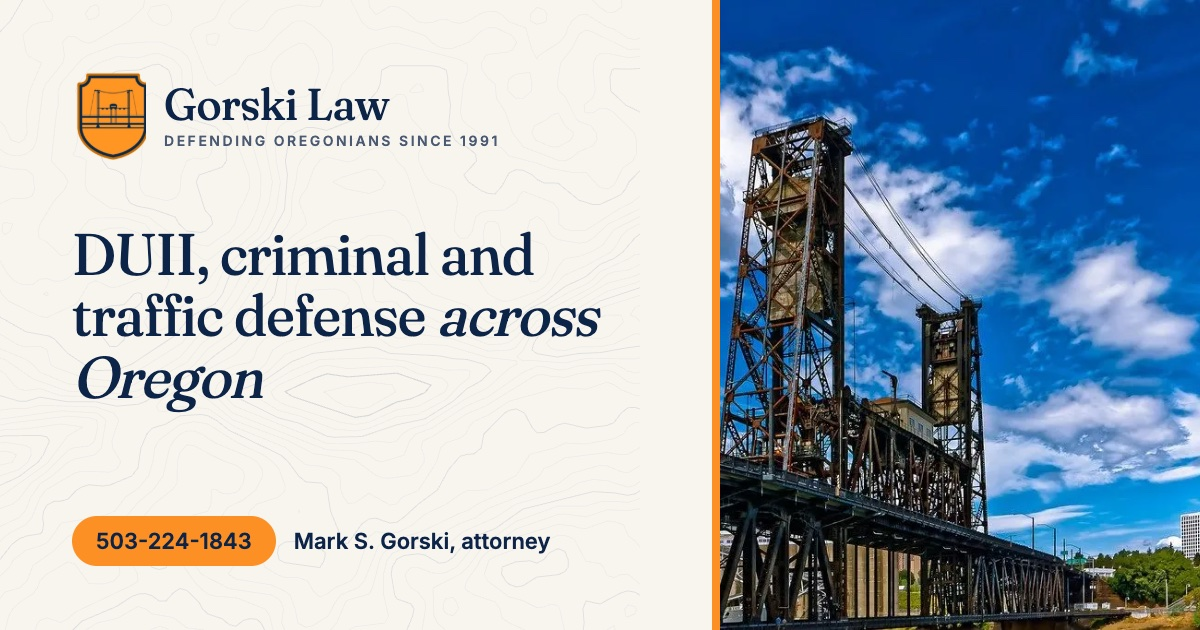
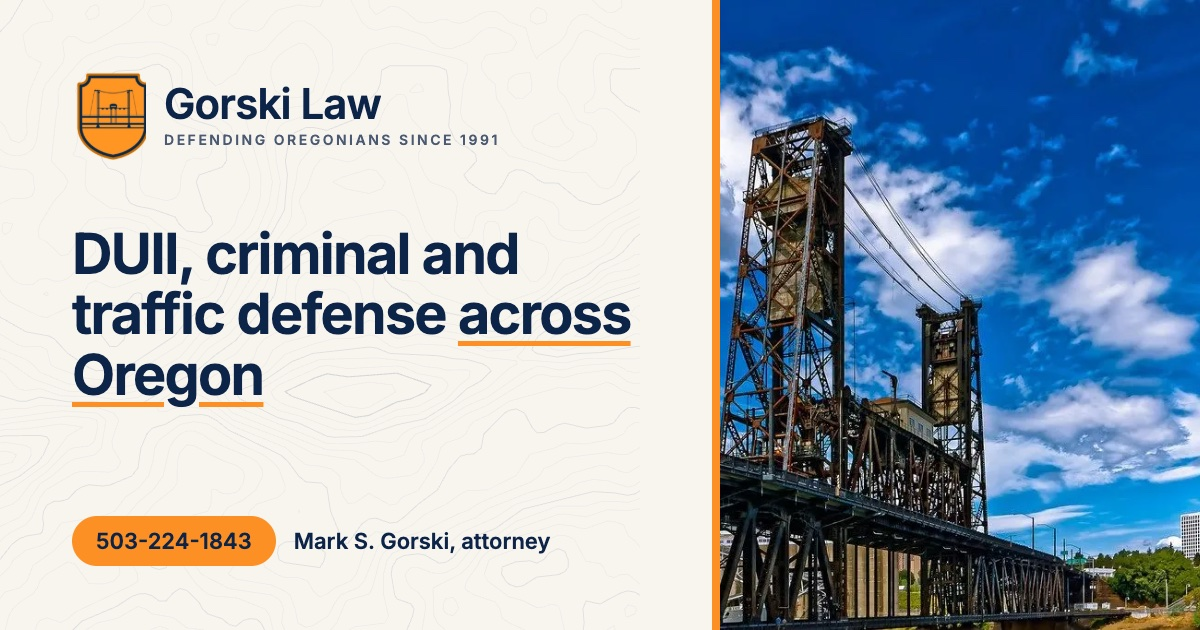
Remove every placeholder, keep only what the firm's own site says, switch to Inter
- no {{CONFIRM}} placeholders anywhere: unknowns are left out (counties section,
  set-asides FAQ, fee details, law school/memberships rows, street address, email)
- footer and contact show the office as "Portland, Oregon", the firm's own wording
- home credentials: teaching, seminars and books in one badge, plus the firm's
  "thousands of Oregon drivers since 1991"; Jeff's review stays the only review
  (it is the only one on any archived version of gorski-law.com)
- plainer About heading: "A trial lawyer in Oregon courts since 1991"
- type: Inter for headings (the template's data-font="Inter") and body text
- footer tagline wraps instead of overlapping the next column
- check.js now fails if a placeholder ever reaches a page

Changed region(s): [[0.0617, 0.3619, 0.5242, 0.6635], [0.1233, 0.1206, 0.4317, 0.2413]]

diff --git a/build.js b/build.js
@@ -241,8 +241,9 @@ function header(p) {
 function hoursDL() {
   return `<dl class="hours">${FIRM.hours.map((h) => `<div><dt>${h.short}</dt><dd>${h.time}</dd></div>`).join('')}</dl>`;
 }
-const ADDRESS = FIRM.address ? esc(FIRM.address) : '{{CONFIRM: office street address (none is published on the current site)}}';
-const EMAIL = FIRM.email ? `<a href="mailto:${esc(FIRM.email)}">${esc(FIRM.email)}</a>` : '{{CONFIRM: office email to publish}}';
+// No street address or email is published on the firm's own site, so none is shown until FIRM sets one.
+const ADDRESS = FIRM.address ? esc(FIRM.address) : 'Portland, Oregon';
+const EMAIL = FIRM.email ? `<a href="mailto:${esc(FIRM.email)}">${esc(FIRM.email)}</a>` : '';
 
 function footer(p) {
   const pages1 = ['/duii-defense/', '/duii-defense/diversion/', '/duii-defense/dmv-implied-consent-hearing/', '/traffic-tickets/', '/traffic-tickets/cdl-commercial-drivers/', '/criminal-defense/'];
@@ -256,7 +257,7 @@ function footer(p) {
     </div>
     <div class="foot__col">
       <h2 class="foot__h">Contact</h2>
-      <address class="nap"><span class="nap__name">Gorski Law</span><a href="${TEL}">${FIRM.phone}</a><span>${ADDRESS}</span><span>${EMAIL}</span><a href="${FIRM.facebook}" rel="noopener">Facebook: trialmoose</a></address>
+      <address class="nap"><span class="nap__name">Gorski Law</span><a href="${TEL}">${FIRM.phone}</a><span>${ADDRESS}</span>${EMAIL ? `<span>${EMAIL}</span>` : ''}<a href="${FIRM.facebook}" rel="noopener">Facebook: trialmoose</a></address>
     </div>
     <div class="foot__col"><h2 class="foot__h">Hours</h2>${hoursDL()}</div>
     <nav class="foot__col" aria-label="Practice areas"><h2 class="foot__h">Practice areas</h2><ul class="foot__pages">${pages1.map(li).join('')}</ul></nav>
@@ -534,7 +535,7 @@ function graph(p, crumbs) {
 const CSS = fs.readFileSync(path.join(SRC, 'assets/template.css'), 'utf8') + '\n' + fs.readFileSync(path.join(SRC, 'assets/gorski.css'), 'utf8');
 const CSS_V = crypto.createHash('md5').update(CSS).digest('hex').slice(0, 8);
 // colours sampled from the Gorski Law logo: shield orange, navy lettering
-const THEME = ':root { --accent: #fc9024; --accent-ink: #0c2448; --ink: #0c2448; --paper: #f8f5ef; --display: \'Fraunces\'; }';
+const THEME = ':root { --accent: #fc9024; --accent-ink: #0c2448; --ink: #0c2448; --paper: #f8f5ef; --display: \'Inter\'; }';
 const JS_V = hash(path.join(SRC, 'assets/app.js'));
 function heroPreload(p) {
   const k = p.route === '/' ? 'bridge' : photoFor(p);
@@ -551,7 +552,7 @@ function shell(p, main) {
   const url = abs(p.route);
   const ogImg = abs('/assets/img/og.jpg');
   return `<!doctype html>
-<html lang="en-US" data-font="Fraunces" data-skin="editorial">
+<html lang="en-US" data-font="Inter" data-skin="editorial">
 <head>
 <meta charset="utf-8">
 <meta name="viewport" content="width=device-width, initial-scale=1, viewport-fit=cover">
@@ -579,7 +580,7 @@ ${p.kind === 'post' ? `<meta property="article:published_time" content="${isoDat
 <link rel="icon" href="/favicon-32.png" type="image/png" sizes="32x32">
 <link rel="apple-touch-icon" href="/apple-touch-icon.png">
 ${heroPreload(p)}
-<link rel="preload" href="/assets/fonts/Fraunces-400.woff2" as="font" type="font/woff2" crossorigin>
+<link rel="preload" href="/assets/fonts/Inter-400.woff2" as="font" type="font/woff2" crossorigin>
 <link rel="stylesheet" href="/assets/styles.css?v=${CSS_V}">
 <style>${THEME}</style>
 <link rel="alternate" type="application/rss+xml" title="Gorski Law blog" href="/rss.xml">
@@ -651,7 +652,7 @@ function build() {
   const x = (s) => esc(s).replace(/'/g, '&apos;');
   write('rss.xml', `<?xml version="1.0" encoding="UTF-8"?>\n<rss version="2.0" xmlns:atom="http://www.w3.org/2005/Atom">\n<channel>\n<title>Gorski Law blog</title>\n<link>${abs('/blog/')}</link>\n<atom:link href="${abs('/rss.xml')}" rel="self" type="application/rss+xml"/>\n<description>Plain-language guides to Oregon DUII, traffic and criminal law from Gorski Law. Drafts pending attorney review.</description>\n<language>en-us</language>\n<lastBuildDate>${new Date(BUILD_DATE + 'T12:00:00Z').toUTCString()}</lastBuildDate>\n${posts.map((p) => `<item>\n  <title>${x(p.fm.h1 || p.title)}</title>\n  <link>${abs(p.route)}</link>\n  <guid isPermaLink="true">${abs(p.route)}</guid>\n  <pubDate>${new Date(isoDate(p.fm.date) + 'T12:00:00Z').toUTCString()}</pubDate>\n  <description>${x(p.description)}</description>\n</item>`).join('\n')}\n</channel>\n</rss>\n`);
   const L = (r) => { const q = byRoute.get(r); return q ? `- [${q.fm.h1 || q.title}](${abs(r)}): ${q.description}` : ''; };
-  write('llms.txt', `# Gorski Law\n\n> Gorski Law is the Oregon criminal defense, DUII and traffic defense practice of attorney Mark S. Gorski (Oregon State Bar No. 912881, admitted 1991). It represents clients throughout Oregon, including eastern and southern Oregon, from a Portland-metro base. Free consultation. Phone ${FIRM.phone}, Monday to Friday 9:00 am to 5:00 pm.\n\n${PREVIEW ? 'Note: this is a concept preview, not the official Gorski Law website. Practice pages and posts are drafts pending attorney review.\n\n' : ''}Gorski Law uses "DUII" (driving under the influence of intoxicants), Oregon's legal term for what most states call DUI. Content is general information about Oregon law, not legal advice.\n\n## Practice areas\n\n${['/duii-defense/', '/traffic-tickets/', '/criminal-defense/'].map((r) => [L(r), ...childrenOf(r).map((k) => '  ' + L(k.route))].join('\n')).join('\n')}\n\n## Key pages\n\n${['/about-mark-gorski/', '/faq/', '/courts-we-serve/', '/contact/', '/blog/'].map(L).filter(Boolean).join('\n')}\n\n## Guides\n\n${posts.map((p) => L(p.route)).join('\n')}\n\n## Contact\n\n- Phone: ${FIRM.phone} (Mon–Fri, 9:00 am – 5:00 pm; closed Sat–Sun)\n- Facebook: ${FIRM.facebook}\n- Office address: not yet published\n`);
+  write('llms.txt', `# Gorski Law\n\n> Gorski Law is the Oregon criminal defense, DUII and traffic defense practice of attorney Mark S. Gorski (Oregon State Bar No. 912881, admitted 1991). It represents clients throughout Oregon, including eastern and southern Oregon, from a Portland-metro base. Free consultation. Phone ${FIRM.phone}, Monday to Friday 9:00 am to 5:00 pm.\n\n${PREVIEW ? 'Note: this is a concept preview, not the official Gorski Law website. Practice pages and posts are drafts pending attorney review.\n\n' : ''}Gorski Law uses "DUII" (driving under the influence of intoxicants), Oregon's legal term for what most states call DUI. Content is general information about Oregon law, not legal advice.\n\n## Practice areas\n\n${['/duii-defense/', '/traffic-tickets/', '/criminal-defense/'].map((r) => [L(r), ...childrenOf(r).map((k) => '  ' + L(k.route))].join('\n')).join('\n')}\n\n## Key pages\n\n${['/about-mark-gorski/', '/faq/', '/courts-we-serve/', '/contact/', '/blog/'].map(L).filter(Boolean).join('\n')}\n\n## Guides\n\n${posts.map((p) => L(p.route)).join('\n')}\n\n## Contact\n\n- Phone: ${FIRM.phone} (Mon–Fri, 9:00 am – 5:00 pm; closed Sat–Sun)\n- Facebook: ${FIRM.facebook}\n- Office: Portland, Oregon\n`);
 
   // CONFIRM.md: refresh the auto-collected list between the markers
   const cfile = path.join(ROOT, 'CONFIRM.md');

diff --git a/src/assets/gorski.css b/src/assets/gorski.css
@@ -5,6 +5,11 @@
    Only what the template does not already have lives here.
    ===================================================================================================== */
 
+/* type: Inter throughout (the template's data-font="Inter" option for headings; the editorial skin's system
+   serif body is swapped for Inter too, so every platform renders the same face) */
+[data-skin="editorial"] body { font-family: 'Inter', system-ui, -apple-system, 'Segoe UI', Roboto, sans-serif; font-size: 1rem; line-height: 1.65; }
+[data-skin="editorial"][data-font="Inter"] { --dw: 600; --dls: -0.03em; --dlh: 1.08; }
+
 /* focus rings: the orange accent is too light on paper for a focus ring, so paper areas use navy */
 :focus-visible { outline-color: var(--ink); }
 .foot :focus-visible, .cta--photo :focus-visible, .section--ink :focus-visible, .sidecard :focus-visible, .ribbon :focus-visible { outline-color: var(--accent); }
@@ -24,7 +29,7 @@
 .brand__tag { display: block; white-space: nowrap; margin-top: 3px; color: var(--muted); font: 600 .62rem/1.3 'Inter', system-ui, sans-serif; letter-spacing: .16em; text-transform: uppercase; }
 .brand--light .brand__shield { width: 48px; }
 .brand--light .brand__name { color: var(--on-dark); }
-.brand--light .brand__tag { color: var(--on-dark-muted); }
+.brand--light .brand__tag { color: var(--on-dark-muted); white-space: normal; }
 @media (max-width: 719px) { .brand__shield { width: 34px; } .brand__name { font-size: calc(1.25rem * var(--ds)); } .brand__tag { font-size: .56rem; letter-spacing: .12em; } }
 
 /* ---------- Animated contour background (Columbia Gorge contours; starts after first paint) ---------- */
@@ -39,7 +44,7 @@
 
 /* ---------- Hero additions ---------- */
 .hero__img { object-position: var(--focus, center 40%); }
-.hero__title em { font-style: italic; }
+.hero__title em { font-style: normal; text-decoration: underline; text-decoration-color: var(--accent); text-decoration-thickness: .09em; text-underline-offset: .12em; text-decoration-skip-ink: none; }
 .hero__card-phone { color: var(--ink); }
 .hero__card-note a { color: var(--ink); font-weight: 600; text-decoration-color: var(--accent); text-decoration-thickness: 2px; text-underline-offset: 3px; }
 .hero__card-more { display: inline-flex; align-items: center; gap: 8px; min-height: 44px; color: var(--ink); font: 700 .95rem/1.2 'Inter', system-ui, sans-serif; text-decoration: underline; text-decoration-color: var(--accent); text-decoration-thickness: 2px; text-underline-offset: 5px; }
@@ -60,7 +65,7 @@
 /* one real testimonial, set large (the template's grid of four is for illustrative demo reviews) */
 .reviews--one { grid-template-columns: minmax(0, 1fr); max-width: 900px; }
 [data-skin="editorial"] .reviews--one .review figure { padding: 4px 0 4px clamp(20px, 3vw, 36px); border-left-width: 4px; }
-[data-skin="editorial"] .reviews--one .review__quote p { font-family: var(--display), var(--dfb); font-weight: 380; font-style: italic; font-size: calc(clamp(1.6rem, 1.1rem + 2vw, 2.6rem) * var(--ds)); line-height: 1.2; letter-spacing: -0.01em; }
+[data-skin="editorial"] .reviews--one .review__quote p { font-family: var(--display), var(--dfb); font-weight: 500; font-style: normal; font-size: calc(clamp(1.6rem, 1.1rem + 2vw, 2.6rem) * var(--ds)); line-height: 1.2; letter-spacing: -0.01em; }
 .reviews--one + .fineprint { max-width: 900px; margin-top: 22px; }
 .fineprint { color: var(--muted); font-size: .88rem; }
 .stat__l a { color: inherit; }

diff --git a/src/pages/index.html b/src/pages/index.html
@@ -46,7 +46,7 @@ updated: 2026-11-17
     <div class="about__media reveal"><!-- include:img:mark --></div>
     <div class="about__copy reveal">
       <p class="eyebrow">About Mark S. Gorski</p>
-      <h2 class="h2" id="about-title">A courtroom lawyer his peers call “Moose”</h2>
+      <h2 class="h2" id="about-title">A trial lawyer in Oregon courts since 1991</h2>
       <p class="about__text">Mark Steven Gorski was admitted to the Oregon State Bar in 1991 and founded his criminal defense practice the same year. He has taught criminal law, presented at legal seminars and contributed to criminal law books. His practice is based in the Portland metro, and he takes cases across the state: he believes some distance between a client's lawyer, the district attorney and the judges can be an advantage.</p>
       <ul class="ticks"><li>{{icon:check}}Oregon State Bar since 1991, Bar No. 912881</li><li>{{icon:check}}Clients from the Portland metro to eastern and southern Oregon</li><li>{{icon:check}}Warren, office manager and paralegal, takes the “do I even need a lawyer?” calls</li></ul>
       <div class="hero__ctas" style="margin:28px 0 0"><a class="btn btn--line btn--lg" href="/about-mark-gorski/">More about Mark<svg class="ico btn__arrow" aria-hidden="true"><use href="#i-arrow"/></svg></a></div>
@@ -92,7 +92,7 @@ updated: 2026-11-17
         </figure>
       </li>
     </ul>
-    <p class="fineprint">A client's own words, quoted as they appear on the firm's current website. Prior results do not guarantee a similar outcome. {{CONFIRM: more client reviews Mark has written permission to publish (Google, Avvo)}}</p>
+    <p class="fineprint">A client's own words, quoted as they appear on the firm's current website. Prior results do not guarantee a similar outcome.</p>
   </div>
 </section>
 
@@ -111,13 +111,13 @@ updated: 2026-11-17
       </li>
       <li class="info__item reveal" style="--d:2">
         <span class="info__icon" aria-hidden="true">{{icon:users}}</span>
-        <h3 class="info__t">Teaching and seminars</h3>
-        <p class="info__x">Mark has taught criminal law and presented at legal seminars. {{CONFIRM: where and what Mark has taught}}</p>
+        <h3 class="info__t">Teaching, seminars and books</h3>
+        <p class="info__x">Mark has taught criminal law, presented at legal seminars and contributed to criminal law books.</p>
       </li>
       <li class="info__item reveal" style="--d:3">
-        <span class="info__icon" aria-hidden="true">{{icon:book}}</span>
-        <h3 class="info__t">Criminal law books</h3>
-        <p class="info__x">He has contributed to criminal law books. {{CONFIRM: book titles and chapters}}</p>
+        <span class="info__icon" aria-hidden="true">{{icon:car}}</span>
+        <h3 class="info__t">Thousands of drivers</h3>
+        <p class="info__x">In the firm's own words, Mark has defended thousands of Oregon drivers since 1991.</p>
       </li>
       <li class="info__item reveal" style="--d:4">
         <span class="info__icon" aria-hidden="true">{{icon:map}}</span>

diff --git a/src/pages/contact.html b/src/pages/contact.html
@@ -22,8 +22,7 @@ updated: 2026-11-17
         <li>{{icon:phone}}<span><strong>Phone:</strong> <a href="{{TEL}}">{{PHONE}}</a></span></li>
         <li>{{icon:clock}}<span><strong>Hours:</strong> Monday to Friday, 9 am – 5 pm. Closed Saturday and Sunday.</span></li>
         <li>{{icon:user}}<span><strong>Not sure you need a lawyer?</strong> Ask for Warren, Mark's son, the office manager and paralegal.</span></li>
-        <li>{{icon:pin}}<span><strong>Office:</strong> {{ADDRESS}}</span></li>
-        <li>{{icon:mail}}<span><strong>Email:</strong> {{EMAIL}}</span></li>
+        <li>{{icon:pin}}<span><strong>Office:</strong> Portland, Oregon</span></li>
         <li>{{icon:map}}<span><strong>Where:</strong> clients throughout Oregon, including eastern and southern Oregon. <a href="/courts-we-serve/">Courts we serve</a></span></li>
       </ul>
       <aside class="tldr" style="margin-top:32px" aria-labelledby="dl-k">

diff --git a/tools/check.js b/tools/check.js
@@ -122,6 +122,7 @@ for (const [route, h] of pages) {
   const t = text(h);
   for (const s of ['Attorney Advertising', 'Prior results do not guarantee a similar outcome', 'This website is general information, not legal advice; contacting us does not create an attorney-client relationship', 'Responsible attorney', 'Mark S. Gorski', '503-224-1843']) if (!t.includes(s)) fail(route, `missing "${s}"`);
   if (/reviewed by mark/i.test(t)) fail(route, 'says "reviewed by Mark"');
+  if (/\{\{\s*CONFIRM/.test(h)) fail(route, 'shows a {{CONFIRM}} placeholder (unknowns are left out of the site; questions for Mark live in CONFIRM.md)');
   if (PREVIEW && !t.includes('Concept preview — not the official Gorski Law website.')) fail(route, 'missing preview ribbon');
   if (!h.includes('href="tel:+15032241843"')) fail(route, 'no tel: link');
   const fm = srcByRoute.get(route) || {};

diff --git a/site.config.js b/site.config.js
@@ -34,8 +34,8 @@ export const FIRM = {
   openingHoursSpec: { dayOfWeek: ['Monday', 'Tuesday', 'Wednesday', 'Thursday', 'Friday'], opens: '09:00', closes: '17:00' },
   facebook: 'https://www.facebook.com/trialmoose/',
   areaServed: 'Oregon',
-  // Unknown until Mark confirms. Leave as null: the templates print a {{CONFIRM}} placeholder and the
-  // address stays out of the structured data.
+  // Not published on the firm's current site. While null, the site shows "Portland, Oregon" (the firm's own
+  // description of its office) and no email, and the address stays out of the structured data.
   address: null,
   email: null,
 };

diff --git a/src/pages/about-mark-gorski.md b/src/pages/about-mark-gorski.md
@@ -44,18 +44,13 @@ Traffic work has always been a big part of the practice. People who drive for a 
 
 ## Teaching, seminars and writing
 
-Mark has taught criminal law, presented at legal seminars and contributed to criminal law books.
-
-- Courses taught: {{CONFIRM: which criminal law courses Mark has taught, where and when}}
-- Seminars: {{CONFIRM: seminar titles, hosts (for example OCDLA or the Oregon State Bar) and years}}
-- Publications: {{CONFIRM: the criminal law books Mark contributed to (titles, his chapters, publishers, years)}}
+Mark has taught criminal law, presented at legal seminars and contributed to criminal law books. In the firm's own description, that work reflects his commitment to staying current with developments in criminal law.
 
 ## Where does Mark practice?
 
 Mark represents clients throughout Oregon, including eastern and southern Oregon, from a Portland-metro base. See [courts we serve](/courts-we-serve/) for how Oregon's courts are organized and how an out-of-town case usually works.
 
-- Counties he appears in most often: {{CONFIRM: the counties Mark regularly appears in (for example Multnomah, Washington, Clackamas)}}
-- Office location: {{CONFIRM: office street address (none is published on the current site)}}
+His office is in Portland. He has represented clients across the state, and he believes some distance between a client's lawyer, the district attorney and the judges can be an advantage.
 
 ## Who else will I talk to?
 
@@ -71,7 +66,7 @@ When he is not working on a case, Mark spends time with his wife, Lynda, and the
 
 > "Mark Gorski is a TRIAL WARRIOR! He's the 'Mohamed Ali' of the Courtroom!" — Jeff, 2015
 
-This is one client's own description. Prior results do not guarantee a similar outcome. {{CONFIRM: permission to publish additional client reviews, and which ones}}
+This is one client's own description. Prior results do not guarantee a similar outcome.
 
 ## Credentials at a glance
 
@@ -80,6 +75,4 @@ This is one client's own description. Prior results do not guarantee a similar o
 | Bar admission            | Oregon State Bar, admitted September 27, 1991 ([directory](https://www.osbar.org/members/membersearch_display.asp?b=912881)) |
 | Bar number               | 912881 (status: Active)                                                                                                      |
 | Practice founded         | 1991                                                                                                                         |
-| Law school               | {{CONFIRM: law school and graduation year}}                                                                                  |
-| Professional memberships | {{CONFIRM: bar sections or associations Mark wants listed}}                                                                  |
-| Other admissions         | {{CONFIRM: any federal court or other admissions}}                                                                           |
+| Office                   | Portland; clients throughout Oregon                                                                                          |

diff --git a/src/pages/faq.md b/src/pages/faq.md
@@ -33,9 +33,7 @@ faq:
   - q: "Do you take cases outside Portland?"
     a: "Yes. Gorski Law represents clients throughout Oregon, including eastern and southern Oregon. See [courts we serve](/courts-we-serve/)."
   - q: "How much does it cost to hire Gorski Law?"
-    a: "It depends on the case. {{CONFIRM: Mark's fee approach (flat fee or hourly, retainers, payment plans)}} The first consultation is free."
-  - q: "Do you handle set-asides, probation violations or Washington cases?"
-    a: "Gorski Law handles Oregon cases. {{CONFIRM: Does Mark handle set-asides (record sealing or expungement) and probation-violation hearings?}}"
+    a: "Fees depend on the charge and the case. Ask about the fee at the free first consultation: call [503-224-1843](tel:+15032241843), Monday to Friday, 9 am – 5 pm."
   - q: "Can you guarantee a result?"
     a: "No. No lawyer can promise an outcome, and every case turns on its own facts. Prior results do not guarantee a similar outcome."
   - q: "Does contacting Gorski Law make me a client?"

diff --git a/src/pages/courts-we-serve.md b/src/pages/courts-we-serve.md
@@ -45,11 +45,6 @@ Not necessarily. Gorski Law already represents clients across the state, includi
 
 The DMV side of a DUII case is different. An [implied consent hearing](/duii-defense/dmv-implied-consent-hearing/) is run by an administrative law judge and, by default, held by telephone or another two-way electronic device, wherever the arrest happened ([ORS 813.410](https://oregon.public.law/statutes/ors_813.410)).
 
-## Which counties does Mark appear in most?
-
-{{CONFIRM: the counties Mark regularly appears in (for example Multnomah, Washington, Clackamas)}}
-
-County pages for Multnomah, Washington and Clackamas will be added only once Mark confirms he appears there regularly, and each will carry genuinely local information: the courthouse, how first appearances work there, and local notes on DUII diversion. Until then, this page covers how cases work statewide.
 
 ## What should I have ready when I call?
 

diff --git a/src/posts/drug-possession-oregon-after-hb-4002.md b/src/posts/drug-possession-oregon-after-hb-4002.md
@@ -147,7 +147,7 @@ Oregon law protects people who call for help. A person who contacts emergency se
 - Note your first appearance date and count 30 days for the conditional discharge deadline.
 - Ask whether a deflection referral was made, or is still possible.
 - Keep every court date. A warrant can delay sealing (ORS 137.224).
-- Ask about sealing. Many outcomes now lead to sealed records under ORS 137.224. {{CONFIRM: Does Mark handle set-asides (record sealing or expungement) and probation-violation hearings?}}
+- Ask about sealing. Many outcomes now lead to sealed records under ORS 137.224.
 
 A possession charge is separate from a drug DUII. If your case started at a traffic stop, see [how marijuana and drug impairment is proven in Oregon](/blog/marijuana-drug-duii-oregon-how-impairment-is-proven/).
 

diff --git a/src/pages/legal/privacy.md b/src/pages/legal/privacy.md
@@ -24,10 +24,6 @@ updated: 2026-11-17
 
 When you call [503-224-1843](tel:+15032241843), what you share is handled by Gorski Law in the ordinary course of evaluating your matter. Contacting the firm does not create an attorney-client relationship.
 
-## Before launch
+## Questions and changes
 
-{{CONFIRM: the live site's form provider, analytics (if any) and the contact person for privacy questions}}
-
-## Changes
-
-If this policy changes, the date on this page will change too.
+For questions about this policy, call Gorski Law at [503-224-1843](tel:+15032241843). If this policy changes, the date on this page will change too.

diff --git a/src/pages/criminal-defense/index.md b/src/pages/criminal-defense/index.md
@@ -160,6 +160,4 @@ Gorski Law works from a Portland-metro base and represents clients throughout Or
 
 Warren, Mark's son, is the office manager and paralegal. He takes the "I'm not sure I even need a lawyer" calls. No lawyer can promise how a criminal case will end. A consultation can help you understand the charge, the deadlines, the options that may apply and the risks of each.
 
-{{CONFIRM: Does Mark handle set-asides (record sealing or expungement) and probation-violation hearings?}}
-
 Call [503-224-1843](tel:+15032241843), Monday to Friday, 9 am to 5 pm.
